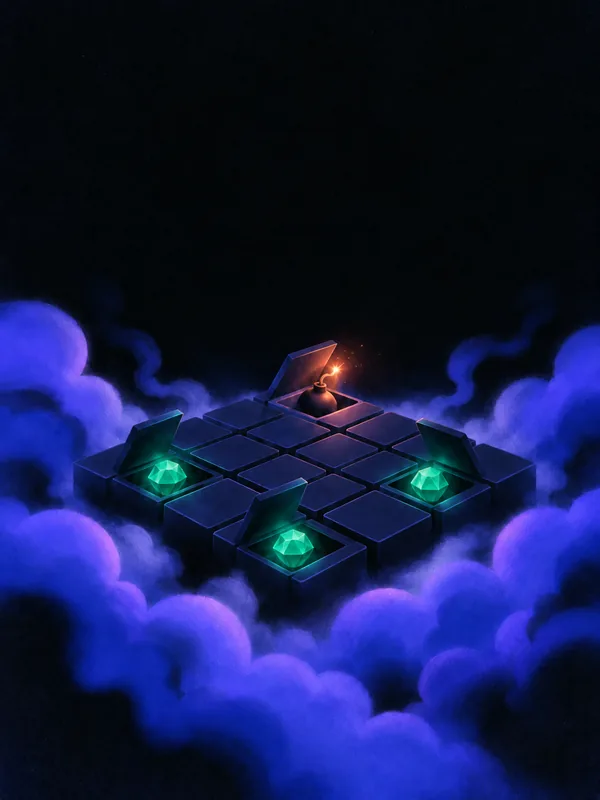
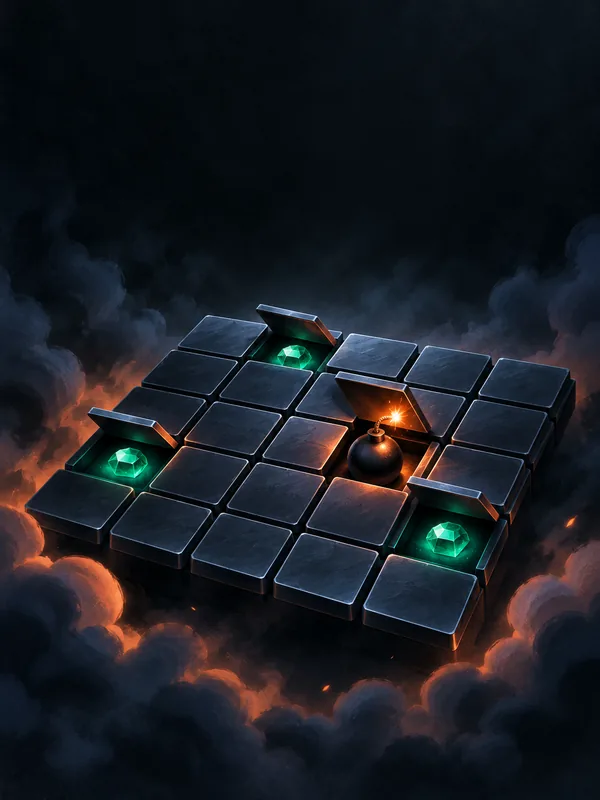
Lobby: rotating hero with the live Crash round, Top 10 by room activity, live chip; v2 tiles
Claude-Session: https://claude.ai/code/session_01JwJ7yz4tnHC44L8sbGWHgU

diff --git a/public/js/lobby.js b/public/js/lobby.js
@@ -1,0 +1,120 @@
+// Lobby furniture: a rotating hero with a live Crash slide, a ranked Top 10 row, and a live chip.
+// One Crash poller is shared by every widget on the page and stops itself when they leave the DOM.
+import { h, svgUse, fmt, fmtMult, fmtPct } from './ui.js';
+import { CATALOG, gameById, ART, BANNERS } from './games/index.js';
+import { livePoller } from './games/live-ui.js';
+import { crashMultAt } from '../shared/live.js';
+import { socialBets, socialOnline, onSocial } from './social.js';
+
+/* ---------------- shared Crash watcher ---------------- */
+let watch = null;
+export function crashWatch() {
+  if (watch && !watch.dead) return watch;
+  const subs = new Set(); let state = null, tick = 0;
+  const p = livePoller('crash', (s) => { state = s; }, { fast: 700, slow: 1200 });
+  const w = {
+    dead: false,
+    /** `fn(state, now)` every 120 ms while `el` is on the page. */
+    on(fn, el) { const s = { fn, el }; subs.add(s); return () => subs.delete(s); },
+  };
+  const alive = () => {
+    for (const s of subs) if (!s.el.isConnected) subs.delete(s);
+    if (subs.size) return true;
+    p.stop(); clearInterval(tick); w.dead = true; return false;
+  };
+  tick = setInterval(() => { if (!alive() || !state) return; const now = p.clock.now(); for (const s of subs) { try { s.fn(state, now); } catch { /* widget gone */ } } }, 120);
+  watch = w; return w;
+}
+/** Phase, text and tone for a Crash snapshot at `now`. */
+function crashRead(s, now) {
+  const r = s.round;
+  if (s.phase === 'betting') { const rem = (r.bettingEnds - now) / 1000; return rem > 0.05 ? { tone: 'betting', big: `${rem.toFixed(1)}s`, label: 'Next flight in', cta: 'Bet on this flight' } : { tone: 'running', big: '', label: 'Taking off…', cta: 'Watch the flight' }; }
+  if (s.phase === 'running') return { tone: 'running', big: fmtMult(crashMultAt(Math.max(0, now - r.startedAt))), label: 'Flying', cta: 'Watch the flight' };
+  return { tone: r.result >= 2 ? 'win' : 'bust', big: fmtMult(r.result), label: 'Crashed at', cta: 'Next round opens soon' };
+}
+
+/* ---------------- hero carousel ---------------- */
+const liveDot = () => h('i', { class: 'live-dot', 'aria-hidden': 'true' });
+/** The live slide: the real Crash round, counting down and flying in the hero. */
+export function liveSlide() {
+  const count = h('span', { class: 'tag dark' }, '…');
+  const label = h('div', { class: 'eyebrow' }, liveDot(), 'Live table · Crash · ', count);
+  const big = h('h1', { class: 'hero-live num' }, 'Connecting to the table…');
+  const lead = h('p', { class: 'lead' }, 'Everyone bets on the same round, with one seed committed before it starts.');
+  const cta = h('a', { class: 'btn primary lg', href: '#/play/crash' }, h('span', {}, 'Join the table'));
+  const copy = h('div', { class: 'hero-copy' }, label, big, lead, h('div', { class: 'row' }, cta));
+  let last = '';
+  crashWatch().on((s, now) => {
+    const r = crashRead(s, now);
+    big.textContent = `${r.label} ${r.big}`; big.className = `hero-live num ${r.tone}`;
+    count.textContent = `${s.bets.length} in this round`;
+    cta.firstChild.textContent = r.cta; cta.classList.toggle('disabled', s.phase === 'ended');
+    const hist = s.history.slice(0, 6).map((x) => fmtMult(x.result)).join(' · ');
+    if (hist !== last) { last = hist; lead.textContent = hist ? `Last flights: ${hist}` : lead.textContent; }
+  }, copy);
+  return { key: 'live', img: h('img', { class: 'hero-img', src: 'art/crash-banner.webp', alt: '', decoding: 'async' }), copy, thumb: 'art/crash-banner.webp', label: 'Live Crash' };
+}
+/** Game of the day: a different painted game on top every day, picked from the calendar. */
+export function gameOfDaySlide() {
+  const painted = CATALOG.filter((g) => ART.has(g.id));
+  const day = Math.floor(Date.now() / 864e5);
+  const g = painted[day % painted.length] || CATALOG[0];
+  const src = BANNERS.has(g.id) ? `art/${g.id}-banner.webp` : `art/${g.id}.webp`;
+  const copy = h('div', { class: 'hero-copy' },
+    h('div', { class: 'eyebrow' }, 'Game of the day'),
+    h('h1', {}, g.name),
+    h('p', { class: 'lead' }, `${g.blurb} RTP ${fmtPct(g.rtp, 2)} · pays up to ${g.ceiling}.`),
+    h('div', { class: 'row' }, h('a', { class: 'btn primary lg', href: `#/play/${g.id}` }, h('span', {}, `Play ${g.name}`))));
+  return { key: 'gotd', img: h('img', { class: `hero-img${BANNERS.has(g.id) ? '' : ' portrait'}`, src, alt: '', decoding: 'async' }), copy, thumb: `art/${g.id}.webp`, label: g.name };
+}
+/** Rotating hero. Each slide is `{ key, img, copy, thumb, label }`. Thumbnails steer it on desktop, dots on phones, swipes everywhere. */
+export function heroCarousel(slides, { interval = 7000 } = {}) {
+  let i = 0, timer = 0, paused = false;
+  const els = slides.map((s) => h('div', { class: 'slide', 'data-key': s.key }, s.img, s.copy));
+  const thumbs = slides.map((s, k) => h('button', { type: 'button', 'aria-label': s.label, onClick: () => go(k, true) }, h('img', { src: s.thumb, alt: '', loading: 'lazy', decoding: 'async' })));
+  const dots = slides.map((s, k) => h('button', { type: 'button', 'aria-label': s.label, onClick: () => go(k, true) }));
+  const root = h('section', { class: 'hero-banner promo carousel', tabindex: '0', 'aria-roledescription': 'carousel' }, ...els, h('div', { class: 'hero-nav' }, ...thumbs), h('div', { class: 'hero-dots' }, ...dots));
+  function paint() {
+    els.forEach((el, k) => el.classList.toggle('on', k === i));
+    thumbs.forEach((b, k) => b.setAttribute('aria-current', String(k === i)));
+    dots.forEach((b, k) => b.setAttribute('aria-current', String(k === i)));
+  }
+  function go(k, manual = false) { i = (k + slides.length) % slides.length; paint(); if (manual) arm(); }
+  function arm() { clearInterval(timer); timer = setInterval(() => { if (!root.isConnected) return clearInterval(timer); if (!paused && !document.hidden) go(i + 1); }, interval); }
+  root.addEventListener('mouseenter', () => { paused = true; }); root.addEventListener('mouseleave', () => { paused = false; });
+  root.addEventListener('focusin', () => { paused = true; }); root.addEventListener('focusout', () => { paused = false; });
+  root.addEventListener('keydown', (e) => { if (e.key === 'ArrowRight') go(i + 1, true); if (e.key === 'ArrowLeft') go(i - 1, true); });
+  let x0 = null;
+  root.addEventListener('touchstart', (e) => { x0 = e.touches[0].clientX; }, { passive: true });
+  root.addEventListener('touchend', (e) => { if (x0 == null) return; const dx = e.changedTouches[0].clientX - x0; x0 = null; if (Math.abs(dx) > 40) go(i + (dx < 0 ? 1 : -1), true); }, { passive: true });
+  paint(); arm();
+  return root;
+}
+
+/* ---------------- Top 10 in the room ---------------- */
+const PRIOR = ['crash', 'mines', 'plinko', 'chicken', 'dice', 'roulette', 'limbo', 'wheel', 'tower', 'keno', 'slide', 'pump', 'hilo', 'diamonds', 'flip', 'blackjack', 'rps', 'videopoker', 'baccarat'];
+function ranking() {
+  const n = {}; for (const b of socialBets()) n[b.game] = (n[b.game] || 0) + 1;
+  const score = (id) => (n[id] || 0) * 100 - PRIOR.indexOf(id);
+  return CATALOG.map((g) => g.id).sort((a, b) => score(b) - score(a)).slice(0, 10).map(gameById).filter(Boolean);
+}
+/** Ranked row with the big ghosted numerals. `tile(game)` draws one card. Re-ranks once the room feed arrives. */
+export function topTen(tile) {
+  const row = h('div', { class: 'cards ranked' });
+  const sub = h('span', { class: 't-desc' }, 'by bets in the room');
+  const paint = () => row.replaceChildren(...ranking().map((g, k) => h('div', { class: 'rk' }, h('span', { class: 'rk-num', 'aria-hidden': 'true' }, String(k + 1)), tile(g))));
+  paint();
+  if (!socialBets().length) { const off = onSocial(() => { if (!row.isConnected) return off(); if (socialBets().length) { paint(); off(); } }); }
+  const scroll = (dir) => row.scrollBy({ left: dir * row.clientWidth * 0.8, behavior: 'smooth' });
+  return h('section', { class: 'grow stack section' },
+    h('div', { class: 'section-head' }, h('h2', {}, 'Top 10 right now'), h('div', { class: 'head-tools' }, sub, h('div', { class: 'row-arrows' }, h('button', { type: 'button', 'aria-label': 'Scroll left', onClick: () => scroll(-1) }, svgUse('ph-caret-left')), h('button', { type: 'button', 'aria-label': 'Scroll right', onClick: () => scroll(1) }, svgUse('ph-caret-right'))))),
+    row);
+}
+
+/* ---------------- live chip for the Live tables card ---------------- */
+export function liveChip() {
+  const text = h('span', {}, 'Crash · connecting');
+  const el = h('span', { class: 'cc-live' }, liveDot(), text);
+  crashWatch().on((s, now) => { const r = crashRead(s, now); text.textContent = s.phase === 'betting' ? (r.big ? `Crash · bets close in ${r.big}` : 'Crash · taking off') : s.phase === 'running' ? `Crash · ${r.big}` : `Crash · ${r.big} · ${socialOnline()} online`; el.className = `cc-live ${r.tone}`; }, el);
+  return el;
+}

diff --git a/public/js/app.js b/public/js/app.js
@@ -11,6 +11,7 @@ import { openWallet } from './wallet.js';
 import { TIERS, tierById, DRIP_IDS } from '../shared/tiers.js';
 import { liveBets, winTicker, chatButton, startSocial, stopSocial, closeChatForLogout, toggleChat } from './social.js';
 import { chestCard, chestPill } from './chest.js';
+import { heroCarousel, liveSlide, gameOfDaySlide, topTen, liveChip } from './lobby.js';
 import { authPage, rememberRef } from './signup.js';
 import { userMenu, accountBody } from './menu.js';
 import { REFERRAL } from '../shared/tiers.js';
@@ -170,8 +171,8 @@ function gameRow(title, games, linked, sub, viewAll = null) {
     cards);
 }
 /** Wide category card: one line of copy and a big tinted glyph. A card, not a button. */
-function catCard({ title, text, href, art, colour }) {
-  const el = h('a', { class: 'cat-card', href }, h('img', { class: 'cc-img', src: `art/${art}.webp`, alt: '', loading: 'lazy', decoding: 'async' }), h('div', { class: 'cc-body' }, h('h3', {}, title), h('p', {}, text)));
+function catCard({ title, text, href, art, colour, extra = null }) {
+  const el = h('a', { class: 'cat-card', href }, h('img', { class: 'cc-img', src: `art/${art}.webp`, alt: '', loading: 'lazy', decoding: 'async' }), extra, h('div', { class: 'cc-body' }, h('h3', {}, title), h('p', {}, text)));
   el.style.setProperty('--c', colour);
   return el;
 }
@@ -191,9 +192,7 @@ function promoHero(m) {
   if (chestReady) { eyebrow = 'Your chest is ready'; title = `About ${fmt(c.expected)} AGT inside`; text = 'A random 0.3% to 1.2% of what you wagered since it last opened. Expected value on the label.'; cta = button('Open chest', { kind: 'primary', size: 'lg', onClick: async () => { const { openChestFlow } = await import('./chest.js'); await openChestFlow(c.wagered); render(); } }); }
   else if (drip) { eyebrow = `${drip[1].label} unlocked`; title = `${fmt(drip[1].available)} AGT to claim`; text = drip[1].blurb; cta = button(`Claim ${fmt(drip[1].available)} AGT`, { kind: 'primary', size: 'lg', onClick: async () => { try { await api.claimDrip(drip[0]); toast('Claimed.', 'good'); render(); } catch (e) { toast(e.message, 'bad'); } } }); }
   else { const t = tierById(m.rewards?.tier); eyebrow = `Welcome back, ${m.user.username}`; title = c && c.wagered > 0 ? `Chest opens in ${until(c.nextAt - Date.now())}` : 'Play to fill the chest'; text = `${t.name} · ${(t.rate * 100).toFixed(1)}% rakeback · hourly, daily and weekly rebates on what you wager.`; cta = h('a', { class: 'btn primary lg', href: '#/rebates' }, h('span', {}, 'Rebates')); }
-  return h('section', { class: 'hero-banner promo' },
-    heroPicture(),
-    h('div', { class: 'hero-copy' }, h('div', { class: 'eyebrow' }, eyebrow), h('h1', {}, title), h('p', { class: 'lead' }, text), h('div', { class: 'row' }, cta)));
+  return { key: 'promo', img: heroPicture(), copy: h('div', { class: 'hero-copy' }, h('div', { class: 'eyebrow' }, eyebrow), h('h1', {}, title), h('p', { class: 'lead' }, text), h('div', { class: 'row' }, cta)), thumb: 'art/lobby-hero.webp', label: 'Rebates' };
 }
 const FEATURED = [
   { id: 'roulette', title: 'Roulette', text: 'European single zero. Every bet pays 36 to 37.' },
@@ -249,11 +248,12 @@ async function lobbyPage() {
   try { const r = await api.rounds(60); recent = [...new Set(r.rounds.map((x) => x.game))].slice(0, 8); } catch { /* fine */ }
   const by = (id) => CATALOG.filter((g) => g.cat === id);
   return h('div', { class: 'stack page' },
-    promoHero(m),
+    heroCarousel([promoHero(m), liveSlide(), gameOfDaySlide()]),
     open && h('div', { class: 'banner' }, h('b', {}, 'Round in progress'), h('span', {}, `${gameById(open.game)?.name} · ${fmtAgt(open.amount)}`), h('div', { class: 'spacer' }), h('a', { class: 'btn accent sm', href: `#/play/${open.game}` }, h('span', {}, 'Resume'))),
     h('div', { class: 'cat-cards' },
-      catCard({ title: 'Live tables', text: 'One Crash flight and one wheel, for everyone at once.', href: '#/play/crash', art: 'cat-live', colour: GAME_COLOR.crash }),
+      catCard({ title: 'Live tables', text: 'One Crash flight and one wheel, for everyone at once.', href: '#/play/crash', art: 'cat-live', colour: GAME_COLOR.crash, extra: liveChip() }),
       catCard({ title: 'Originals', text: `${CATALOG.length} provably fair games. Verify any round in your browser.`, href: '#/games', art: 'cat-originals', colour: GAME_COLOR.dice })),
+    topTen((g) => gameTile(g, true)),
     gameRow('Originals', by('originals'), true, null, '#/games?cat=originals'),
     recent.length ? gameRow('Recently played', recent.map(gameById).filter(Boolean), true) : null,
     gameRow('Streak games', by('chains'), true, null, '#/games?cat=chains'),

diff --git a/public/css/app.css b/public/css/app.css
@@ -1589,3 +1589,46 @@ body.chat-open .tabbar .tab-chat{color:var(--accent)}
   .cat-card{min-height:110px;padding-right:var(--s3)}
   .cc-img{-webkit-mask-image:linear-gradient(90deg,transparent 0%,rgba(0,0,0,.4) 50%,#000 85%);mask-image:linear-gradient(90deg,transparent 0%,rgba(0,0,0,.4) 50%,#000 85%)}
 }
+
+/* ============ v8: the lobby, from the big lobbies ============ */
+.hero-banner.carousel{min-height:280px;outline:none}
+.hero-banner.carousel:focus-visible{box-shadow:0 0 0 2px var(--accent)}
+.hero-banner.carousel .slide{position:absolute;inset:0;display:flex;align-items:flex-start;opacity:0;transition:opacity .8s ease;pointer-events:none}
+.hero-banner.carousel .slide.on{opacity:1;pointer-events:auto}
+.hero-banner.carousel .slide .hero-copy{animation:slidein .7s var(--ease) both}
+@keyframes slidein{from{opacity:0;transform:translateY(8px)}to{opacity:1;transform:none}}
+.hero-img.portrait{object-position:center 38%}
+.hero-live{font-variant-numeric:tabular-nums;transition:color .3s}
+.hero-live.running{color:#ffd166}
+.hero-live.win{color:var(--up)}
+.hero-live.bust{color:#ff6b6b}
+.eyebrow .tag.dark{background:rgba(0,0,0,.45);color:#fff;border:1px solid rgba(255,255,255,.15);margin-left:6px;text-transform:none;letter-spacing:0}
+.btn.disabled{opacity:.6;pointer-events:none}
+.hero-nav{position:absolute;right:var(--s5);bottom:var(--s4);display:flex;gap:6px;z-index:2}
+.hero-nav button{width:60px;height:38px;border-radius:8px;border:1px solid rgba(255,255,255,.2);padding:0;overflow:hidden;opacity:.5;cursor:pointer;background:#000;transition:opacity .2s,transform .2s,border-color .2s}
+.hero-nav button img{width:100%;height:100%;object-fit:cover;display:block}
+.hero-nav button:hover{opacity:.85}
+.hero-nav button[aria-current="true"]{opacity:1;border-color:#fff;transform:scale(1.06)}
+.hero-dots{display:none;position:absolute;left:0;right:0;bottom:10px;justify-content:center;gap:6px;z-index:2}
+.hero-dots button{width:6px;height:6px;border-radius:50%;border:0;padding:0;background:rgba(255,255,255,.35);cursor:pointer}
+.hero-dots button[aria-current="true"]{background:#fff;width:18px;border-radius:3px}
+.live-dot{display:inline-block;width:7px;height:7px;border-radius:50%;background:#ff4d4d;box-shadow:0 0 0 3px rgba(255,77,77,.25);animation:livepulse 1.4s ease-in-out infinite;margin-right:6px;vertical-align:1px}
+@keyframes livepulse{50%{box-shadow:0 0 0 6px rgba(255,77,77,0)}}
+.cc-live{position:absolute;left:var(--s5);top:var(--s4);z-index:1;display:inline-flex;align-items:center;height:26px;padding:0 10px 0 9px;border-radius:999px;background:rgba(0,0,0,.55);backdrop-filter:blur(6px);-webkit-backdrop-filter:blur(6px);font-size:12px;font-weight:700;color:#fff;font-variant-numeric:tabular-nums;white-space:nowrap}
+.cc-live.running{color:#ffd166}
+.cards.ranked{padding-left:6px}
+.rk{display:flex;align-items:flex-end;flex:0 0 auto;scroll-snap-align:start}
+.rk-num{font-size:150px;font-weight:900;line-height:.78;letter-spacing:-.08em;color:transparent;-webkit-text-stroke:2px rgba(255,255,255,.3);width:84px;text-align:right;margin-right:-26px;position:relative;z-index:0;user-select:none;font-variant-numeric:tabular-nums;transition:-webkit-text-stroke-color .2s}
+.rk:hover .rk-num{-webkit-text-stroke-color:rgba(255,255,255,.5)}
+.rk .card{position:relative;z-index:1;flex:0 0 168px}
+.grow .cards.ranked{gap:var(--s4)}
+@media (max-width:860px){
+  .hero-banner.carousel{min-height:330px}
+  .hero-nav{display:none}
+  .hero-dots{display:flex}
+  .cc-live{left:var(--s3);top:var(--s3);height:22px;font-size:11px}
+  .cat-card{min-height:124px}
+  .cc-body{padding-top:22px}
+  .rk-num{font-size:104px;width:56px;margin-right:-18px}
+  .rk .card{flex-basis:150px}
+}

diff --git a/public/js/social.js b/public/js/social.js
@@ -10,6 +10,8 @@ import { sound } from './fx.js';
 const listeners = new Set();
 const emit = () => listeners.forEach((f) => { try { f(); } catch { /* widget gone */ } });
 export const onSocial = (fn) => (listeners.add(fn), () => listeners.delete(fn));
+export const socialBets = () => bets;
+export const socialOnline = () => online;
 
 let bets = [], chat = [], online = 0, ambient = true, lastAt = 0, lastChat = 0, timer = 0, running = false, unread = 0, seen = new Set();
 const CHAT_KEY = 'pentropy.chat.open';

diff --git a/README.md b/README.md
@@ -168,3 +168,12 @@ counter, plus synthesized sound cues with a mute toggle. Reduced-motion users ge
 Tokens cannot be bought, sold, withdrawn, transferred or exchanged. There is no deposit, no
 cash-out, no leaderboard and no referral mechanism, by design. If gambling with real money is
 causing harm, the "If this stopped being a game" lesson lists free, confidential helplines.
+
+## The lobby
+
+The lobby borrows three ideas from the big entertainment lobbies. The hero rotates between the
+rebate promo, the live Crash table (the real round, counting down and flying in the hero, fed by
+the same poller the game uses) and a game of the day picked from the calendar; thumbnails steer it
+on desktop, dots and swipes on phones. "Top 10 right now" ranks games by bets in the room feed
+with Netflix-style ghosted numerals, and the Live tables card carries a live chip with the Crash
+phase. One Crash poller is shared by every widget on the page and stops itself when they leave.
